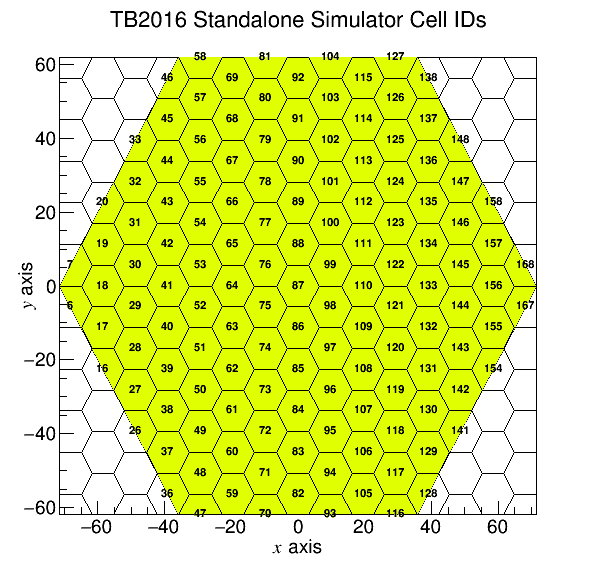
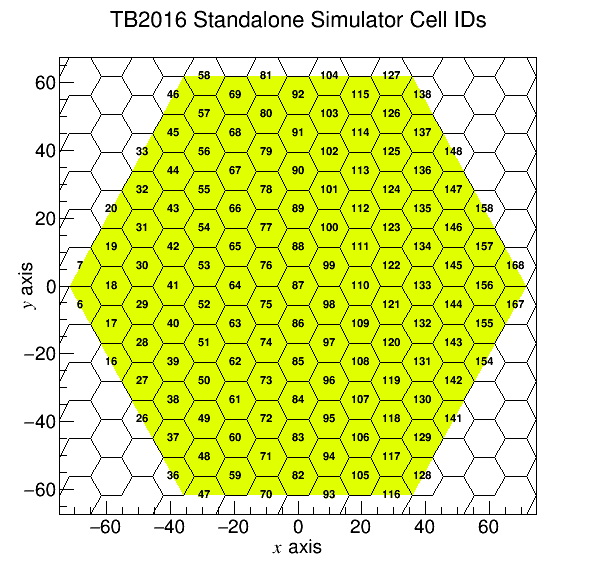
update plots

diff --git a/bin/createIDMap.cc b/bin/createIDMap.cc
@@ -76,19 +76,10 @@ int main()
   map->GetXaxis()->SetTitle("#font[12]{x} axis");
   map->GetYaxis()->CenterTitle();
   map->GetYaxis()->SetTitle("#font[12]{y} axis");
-  map->SetTitle("TB2016 Standalone Simulator Cell IDs");
-  map->Draw();
 
   // make a sensor with the correct size (for plotting)
   TH2Poly hsensortrue;
   hsensortrue.SetName("hsensortrue");
-  hsensortrue.SetTitle("sensortrue");
-  hsensortrue.GetXaxis()->CenterTitle();
-  hsensortrue.GetXaxis()->SetTitle("#font[12]{x} axis");
-  hsensortrue.GetYaxis()->CenterTitle();
-  hsensortrue.GetYaxis()->SetTitle("#font[12]{y} axis");
-  hsensortrue.SetTitle("TB2016 Standalone Simulator Cell IDs");
-
   S = SENSOR_SIDE;
   H = S*sqrt(3)/2;  // center to side distance
   x[0] = -S/2; y[0] = -H;
@@ -101,17 +92,21 @@ int main()
   hsensortrue.AddBin(7, x, y);
   hsensortrue.SetMinimum(0.0);
   hsensortrue.SetMaximum(1.0);
-  hsensortrue.Draw();
   hsensortrue.SetBinContent(1, 0.7);
+
+  csensor.cd();
+  map->Draw();
   hsensortrue.Draw("col same");
   map->Draw("same");
 
   // (u, v) plot
   TCanvas cuv("sensor_u_v", "u, v", 600, 600);
-  map->SetTitle("TB2016 Sensor (u,v) Coordinates");
   hsensortrue.SetBinContent(1, 0.0);
   hsensortrue.Draw();
   hsensortrue.SetBinContent(1, 0.7);
+
+  cuv.cd();
+  map->Draw();
   hsensortrue.Draw("col same");
   map->Draw("same");
 
@@ -243,9 +238,11 @@ int main()
     }
   sout.close();
 
+  map->SetTitle("TB2016 Standalone Simulator Cell IDs");
   csensor.Update();
   csensor.SaveAs(".png");
 
+  map->SetTitle("TB2016 Sensor (u,v) Coordinates");
   cuv.Update();
   cuv.SaveAs(".png");
 
